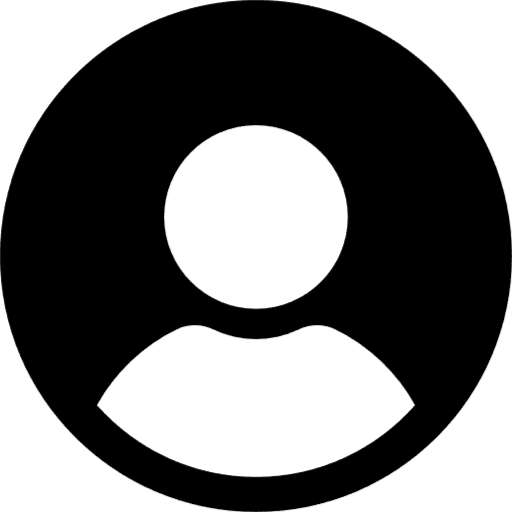
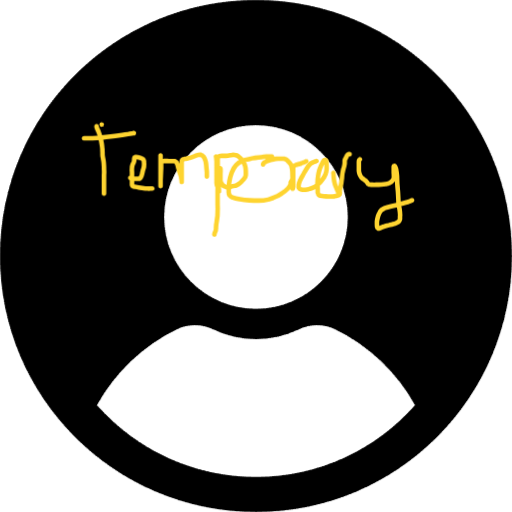
changes slideshow images

Changed region(s): [[0.1562, 0.2188, 0.8125, 0.4688]]

diff --git a/src/pages/Info.tsx b/src/pages/Info.tsx
@@ -12,8 +12,9 @@ interface Service {
 
 export const Info: React.FC = () => {
   const tourSlideshowImages = [
-  "/images/carousel1.jpg",
-  "/images/carousel2.jpg",
+  "/images/tourslideshow1.png",
+  "/images/tourslideshow2.png",
+  "/images/tourslideshow3.png"
   ];
 
   const StartTour: React.FC = () => {
@@ -29,28 +30,28 @@ export const Info: React.FC = () => {
   */
   const services: Service[] = [
     {
-      title: "Altar",
-      content: "The altar is a  sacred table used for worship or sacrifice, typically serving as the focal point during religious rites such as the Eucharist.",
+      title: "EXAMPLE1",
+      content: "PLACEHOLDER TEXT FOR SOMETHING INTERESTING THE ADMIN WOULD LIKE TO HIGHLIGHT ABOUT THE TOUR",
       icon: "/images/temporaryIcon.png" 
     },
     {
-      title: "Cross",
-      content: "The cross stands as a central symbol of Christianity, representing the sacrificial death and resurrection of Jesus Christ.",
+      title: "EXAMPLE2",
+      content: "PLACEHOLDER TEXT FOR SOMETHING INTERESTING THE ADMIN WOULD LIKE TO HIGHLIGHT ABOUT THE TOUR",
       icon: "/images/temporaryIcon.png"
     },
     {
-      title: "Chapel",
-      content: "A chapel is a smaller place of worship intended for private prayer, reflection, or more intimate religious gatherings.",
+      title: "EXAMPLE3",
+      content: "PLACEHOLDER TEXT FOR SOMETHING INTERESTING THE ADMIN WOULD LIKE TO HIGHLIGHT ABOUT THE TOUR",
       icon: "/images/temporaryIcon.png"
     },
     {
-      title: "Bible",
-      content: "The Bible is the holy scripture of Christianity, encompassing sacred texts that guide believers in faith, doctrine, and morality.",
+      title: "EXAMPLE4",
+      content: "PLACEHOLDER TEXT FOR SOMETHING INTERESTING THE ADMIN WOULD LIKE TO HIGHLIGHT ABOUT THE TOUR",
       icon: "/images/temporaryIcon.png"
     },
     {
-      title: "Chalice", 
-      content: "The chalice is a consecrated cup used in Christian liturgy to hold wine, symbolizing the blood of Christ.",
+      title: "EXAMPLE5", 
+      content: "PLACEHOLDER TEXT FOR SOMETHING INTERESTING THE ADMIN WOULD LIKE TO HIGHLIGHT ABOUT THE TOUR",
       icon: "/images/temporaryIcon.png"
     }
   ];
@@ -58,8 +59,7 @@ export const Info: React.FC = () => {
 
 
   const infoContainerStyle: CSSProperties = {
-     minHeight: '150vh',
-     position: 'relative'
+    position: 'relative'
   };
 
   /*

diff --git a/src/styles/info.css b/src/styles/info.css
@@ -37,9 +37,16 @@ body {
 }
 
 .service-item {
-  max-width: 300px;    
+  max-width: 300px; 
+  min-width: 180px;   
   text-align: center;
-  color: #000;         
+  color: #000;  
+  display: flex;
+  flex-direction: column;
+  align-items: center;
+  text-align: center;
+  flex: 0 1 300px;
+
 }
 
 .service-icon {
@@ -51,20 +58,25 @@ body {
   object-fit: cover;      
 }
 
-.two-column-section {
-  display: flex;
-  flex-wrap: wrap; 
-  gap: 2rem;       
-  margin-top: 3rem;
-  margin-bottom: 3rem;
-  width: 80%;
+ .two-column-section {
+   display: flex;
+   flex-wrap: wrap;
+   gap: 2rem;
+   width: 80%;
   margin: 0 auto;
-}
+ }
 
-.two-column-section .column {
-  flex: 1 1 0;
+
+.column {
+  flex: 1 2 0;
   min-width: 200px;
   text-align: center; 
+}
+
+.column2 {
+  flex: 1 2 0;
+  height: auto;
+  min-width: auto;
 }
 
 .two-column-section h2 {
@@ -117,15 +129,6 @@ body {
   background-color: #1C4392 !important;
 }
 
-/* .navbar {
-  display: fixed;
-  justify-content: space-between;
-  align-items: center;
-  border-radius: 10px;
-  max-width: 100%; 
-  box-sizing: border-box; 
-  position: relative ;
-} */
 
 .Start-Tour{
   text-align: center;
@@ -188,4 +191,27 @@ body {
   min-height: 100vh;
   display: flex;
   flex-direction: column;
+}
+
+/* Help button: readable on top of slideshow/map */
+.navbar-help {
+  display: inline-flex;
+  align-items: center;
+  padding: 6px 12px;
+  border-radius: 999px;
+  background: rgba(255, 255, 255, 0.85);
+  border: 1px solid rgba(0, 0, 0, 0.12);
+  box-shadow: 0 2px 8px rgba(0, 0, 0, 0.12);
+  text-decoration: none;
+  backdrop-filter: blur(6px);
+  -webkit-backdrop-filter: blur(6px);
+}
+
+.navbar-help:hover {
+  background: rgba(255, 255, 255, 0.95);
+}
+
+.navbar-help:focus-visible {
+  outline: 2px solid rgba(28, 67, 146, 0.6);
+  outline-offset: 2px;
 }

diff --git a/src/pages/Main.tsx b/src/pages/Main.tsx
@@ -34,7 +34,7 @@ export const Main: React.FC = () => {
       </div>
 
       {/* Map + Welcome side-by-side */}
-      <div className="two-column-section" style={{ alignItems: "center" }}>
+      <div className="two-column-section" style={{ alignItems: "center"}}>
         <div className="column">
           <h2>Welcome!</h2>
           <p style={{ maxWidth: "500px", marginLeft: "auto", marginRight: "auto" }}>
@@ -48,21 +48,26 @@ export const Main: React.FC = () => {
             character and purpose, ranging from ceremonial and religious spaces to academic and civic
             architecture. Select a tour below or use the map to explore.
           </p>
+          <p style={{ maxWidth: "500px", marginLeft: "auto", marginRight: "auto" }}>
+          Please select a tour below to get started, or use the map to explore the campus. 
+          We hope you enjoy discovering the rich history and architecture of our university
+          through this interactive experience!
+          </p>
         </div>
 
-        <div className="column">
+        <div className="column2">
           <div
             style={{
-              width: "500px",
-              height: "500px",
-              overflow: "hidden",
-              borderRadius: "70px",
+              width: "auto",
+              height: "auto",
+              overflow: "auto",
+              borderRadius: "30px",
             }}
           >
             <img
               src={"/images/MapExample.png"}
               alt="Interactive map placeholder"
-              style={{ width: "100%", height: "100%", objectFit: "cover", display: "block" }}
+              style={{maxWidth: "100%", height: "100%", objectFit: "cover"}}
             />
           </div>
         </div>

diff --git a/src/components/Navbar.tsx b/src/components/Navbar.tsx
@@ -33,7 +33,7 @@ useEffect(() => {
                 <Link to="/" onClick={closeMenu}>
                     <img
                         src={"/images/UoAlogo.png"} alt="University of Aberdeen"
-                        style={{ borderRadius: "20px"}}
+                        style={{ borderRadius: "10px"}}
                     />
                 </Link>
             </div>
@@ -46,7 +46,7 @@ useEffect(() => {
             </div>
 
             <ul className={`navbar-links ${isOpen ? "active" : ""}`}>
-                <li><Link to="/help" onClick = {closeMenu}>Help</Link></li>
+                <li><Link to="/help" className="navbar-help" onClick = {closeMenu}>Help</Link></li>
             </ul>
             
         </nav>

diff --git a/src/styles/carousel.css b/src/styles/carousel.css
@@ -25,8 +25,8 @@
 .nav-button {
   position: absolute;
   top: 50%;
-  color: black;
-  border: none;
+  color: #8A2F2F;
+  background-color: #ffffff;
   padding: 15px;
   cursor: pointer;
   transform: translateY(-50%);
@@ -38,12 +38,10 @@
   display: flex;
   align-items: center;
   justify-content: center;
-  background-color: transparent; /* Set the background to transparent */
 }
 
 .nav-button:hover {
   transform: translateY(-50%) scale(1.1);
-  background-color: transparent; /* Keep it transparent on hover */
 }
 
 .nav-button.left {

diff --git a/src/pages/help.tsx b/src/pages/help.tsx
@@ -51,13 +51,9 @@ export const HelpPage : React.FC = () => {
             </p>
           </section>
         </main>
-        <div className="footer">
-
-          <Footer />
-        </div>
       </div>
+      <Footer />
     </div >
-
   );
 };
 

diff --git a/src/styles/footer.css b/src/styles/footer.css
@@ -57,7 +57,8 @@
 .footer-back-to-top-button {
   position: fixed;
   bottom: 20px;
-  right: 20px;
+  left: 50%;
+  transform: translateX(-50%);
   background-color: #8A2F2F;
   color: white;
   border: none;

diff --git a/src/styles/help.css b/src/styles/help.css
@@ -71,10 +71,3 @@
     margin-top: 0.5rem;
     color: #666;
   }
-
-  .footer{
-    padding: 0%;
-  }
-
- 
-
